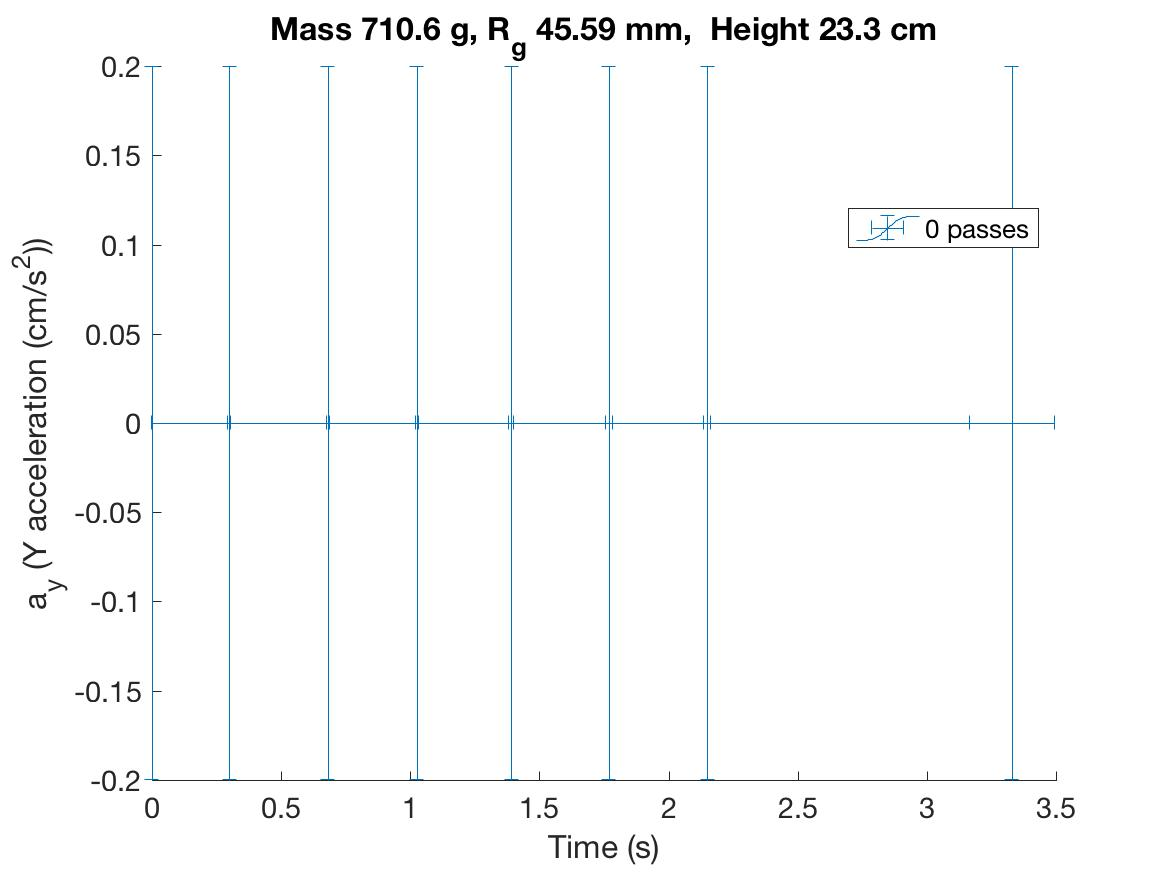
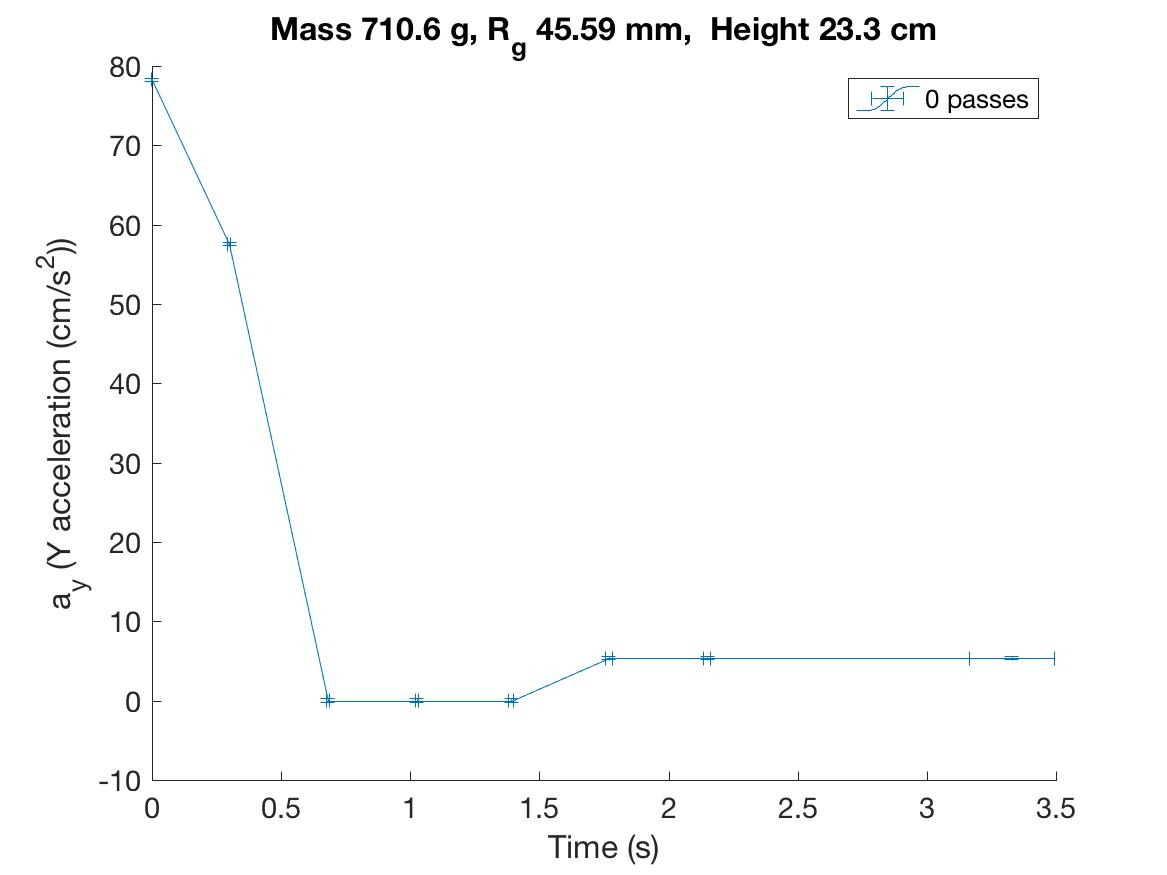
fixed velocity and acceleration function bug with few data sets

diff --git a/RollCarCode/Data Processing Code/vrms_arms.m b/RollCarCode/Data Processing Code/vrms_arms.m
@@ -1,0 +1,46 @@
+%in this code I will try to calculate the rms velocity
+load configurations_04_05_trimmed_v_and_a.mat
+temp = configurations_04_05_v_and_a
+for i = 1:length(temp)
+    if length(temp(i).vx)==1 %if statement because there is some with more than 1 pass
+    ax = temp(i).vx{1,:};
+    ay = temp(i).vy{1,:};
+    t = temp(i).t{1,:};
+    vsquared = ax.^2+ay.^2;
+    vrms(i) = sqrt(trapz(t,vsquared)/(t(end)-t(1)));
+    else
+    ax1 = temp(i).vx{1};
+    ay1 = temp(i).vy{1};
+    t1 = temp(i).t{1};
+    vsquared1 = ax1.^2+ay1.^2;
+    vrms1 = sqrt(trapz(t1,vsquared1)/(t1(end)-t1(1)));
+    vx2 = temp(i).vx{2};
+    vy2 = temp(i).vy{2};
+    t2 = temp(i).t{2};
+    vsquared2 = vx2.^2+vy2.^2;
+    vrms2 = sqrt(trapz(t2,vsquared2)/(t2(end)-t2(1)));
+    vrms(i) = sqrt(1/2*(vrms1.^2+vrms2.^2));
+    end
+end
+
+for i = 1:length(temp)
+    if length(temp(i).vx)==1 %if statement because there is some with more than 1 pass
+    ax = temp(i).ax{1,:};
+    ay = temp(i).ay{1,:};
+    t = temp(i).t{1,:};
+    asquared = ax.^2+ay.^2;
+    arms(i) = sqrt(trapz(t,asquared)/(t(end)-t(1)));
+    else
+        ax1 = temp(i).ax{1};
+    ay1 = temp(i).ay{1};
+    t1 = temp(i).t{1};
+    asquared1 = ax1.^2+ay1.^2;
+    arms1 = sqrt(trapz(t1,asquared1)/(t1(end)-t1(1)));
+    ax2 = temp(i).ax{2};
+    ay2 = temp(i).ay{2};
+    t2 = temp(i).t{2};
+    asquared2 = ax2.^2+ay2.^2;
+    arms2 = sqrt(trapz(t2,asquared2)/(t2(end)-t2(1)));
+    arms(i) = sqrt(1/2*(arms1.^2+arms2.^2));
+    end
+end

diff --git a/RollCarCode/Data Processing Code/derivative12.m b/RollCarCode/Data Processing Code/derivative12.m
@@ -4,8 +4,8 @@ function [deriv1,deriv2]=derivative12(xData,yData)
     
     
     if length(xData)<num_el
-        num_el=length(xData);
-        d=max(1,length(xData)-1);
+        num_el=3;
+        d=2;
     end
     
     deriv1=zeros(size(xData));
